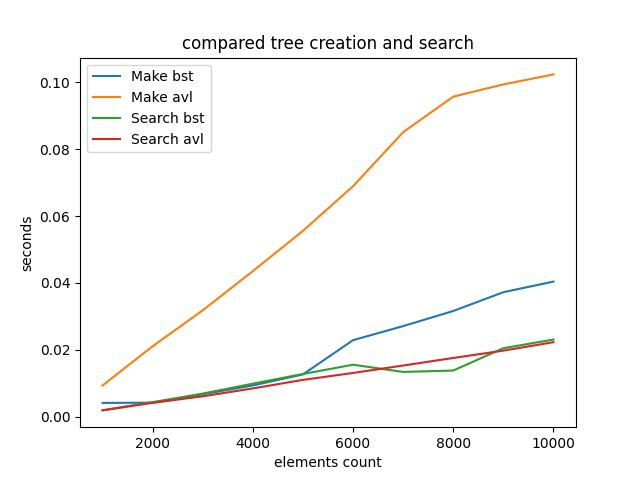
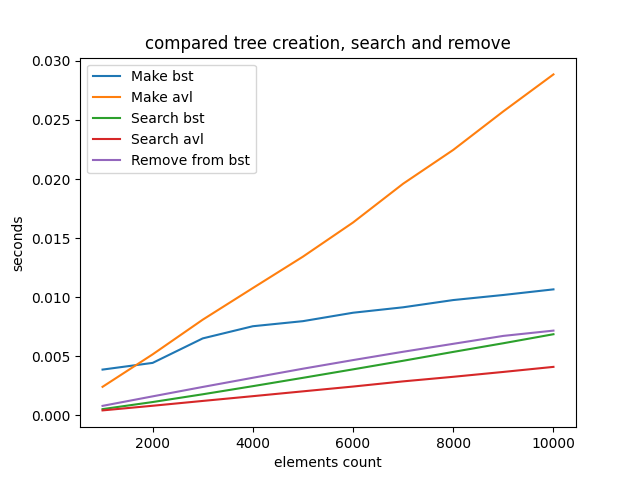
fixed plotting

diff --git a/plots.py b/plots.py
@@ -1,5 +1,5 @@
 from bst import BST
-from avl import AVL
+from avl import AVLNode
 import time
 import gc
 import random
@@ -26,7 +26,8 @@ def measure_make_avl(input_list: list[int]):
         gc_old = gc.isenabled()
         gc.disable()
         start = time.process_time()
-        AVL(input_list[:i * 1000])
+        root = AVLNode()
+        root = root.add_list(input_list[:i * 1000])
         stop = time.process_time()
         if gc_old:
             gc.enable()
@@ -52,13 +53,14 @@ def measure_search_bst(input_list: list[int]):
 
 def measure_search_avl(input_list: list[int]):
     time_stats = []
-    avl = AVL(input_list)
+    root = AVLNode()
+    root.add_list(input_list)
     for i in range(1, 11):
         gc_old = gc.isenabled()
         gc.disable()
         start = time.process_time()
         for key in input_list[:i * 1000]:
-            avl.search(key)
+            root.search(key)
         stop = time.process_time()
         if gc_old:
             gc.enable()
@@ -85,15 +87,17 @@ def measure_remove_bst(input_list: list[int]):
 input_list = [
     random.randint(1, 30000) for i in range(0, 10000)]
 
-time.sleep(5)  # czas na załadowanie bibliotek
+time.sleep(10)  # czas na załadowanie bibliotek
 data_make_bst = measure_make_bst(input_list)
 data_make_avl = measure_make_avl(input_list)
 
 data_search_bst = measure_search_bst(input_list)
 data_search_avl = measure_search_avl(input_list)
 
+data_remove_bst = measure_remove_bst(input_list)
+
 plt.clf()
-plt.title('compared tree creation and search')
+plt.title('compared tree creation, search and remove')
 plt.xlabel('elements count')
 plt.ylabel('seconds')
 plt.plot([element for element, time in data_make_bst],
@@ -104,19 +108,9 @@ plt.plot([element for element, time in data_search_bst],
          [time for element, time in data_search_bst])
 plt.plot([element for element, time in data_search_avl],
          [time for element, time in data_search_avl])
-plt.legend(['Make bst', 'Make avl', 'Search bst', 'Search avl'])
-plt.savefig('compared_tree.png')
-# plt.show()
-
-# Creating removing tree
-data_remove_bst = measure_remove_bst(input_list)
-
-plt.clf()
-plt.title('"Deletion time comparison"')
-plt.xlabel('elements count')
-plt.ylabel('seconds')
 plt.plot([element for element, time in data_remove_bst],
          [time for element, time in data_remove_bst])
-plt.legend(['Remove from bst'])
-plt.savefig('remove_bst.png')
+plt.legend(['Make bst', 'Make avl', 'Search bst', 'Search avl',
+            'Remove from bst'])
+plt.savefig('compared_tree.png')
 plt.show()
